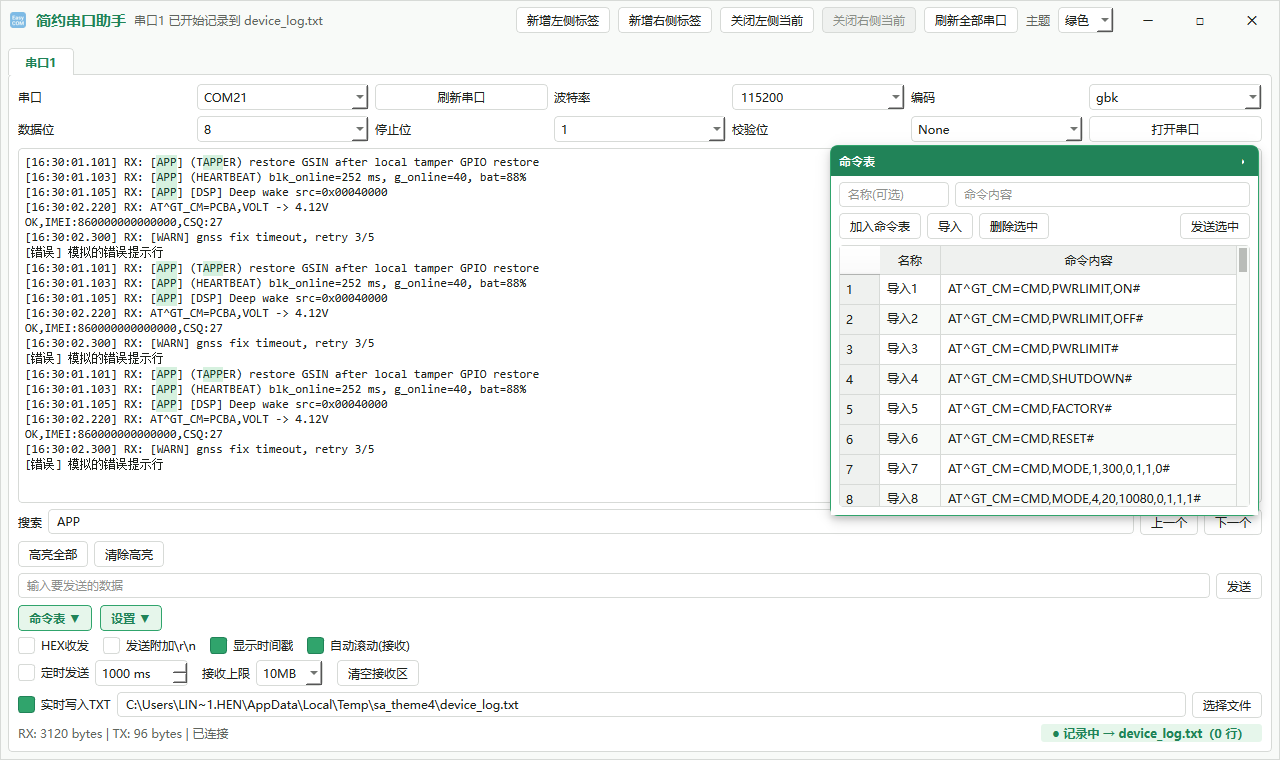
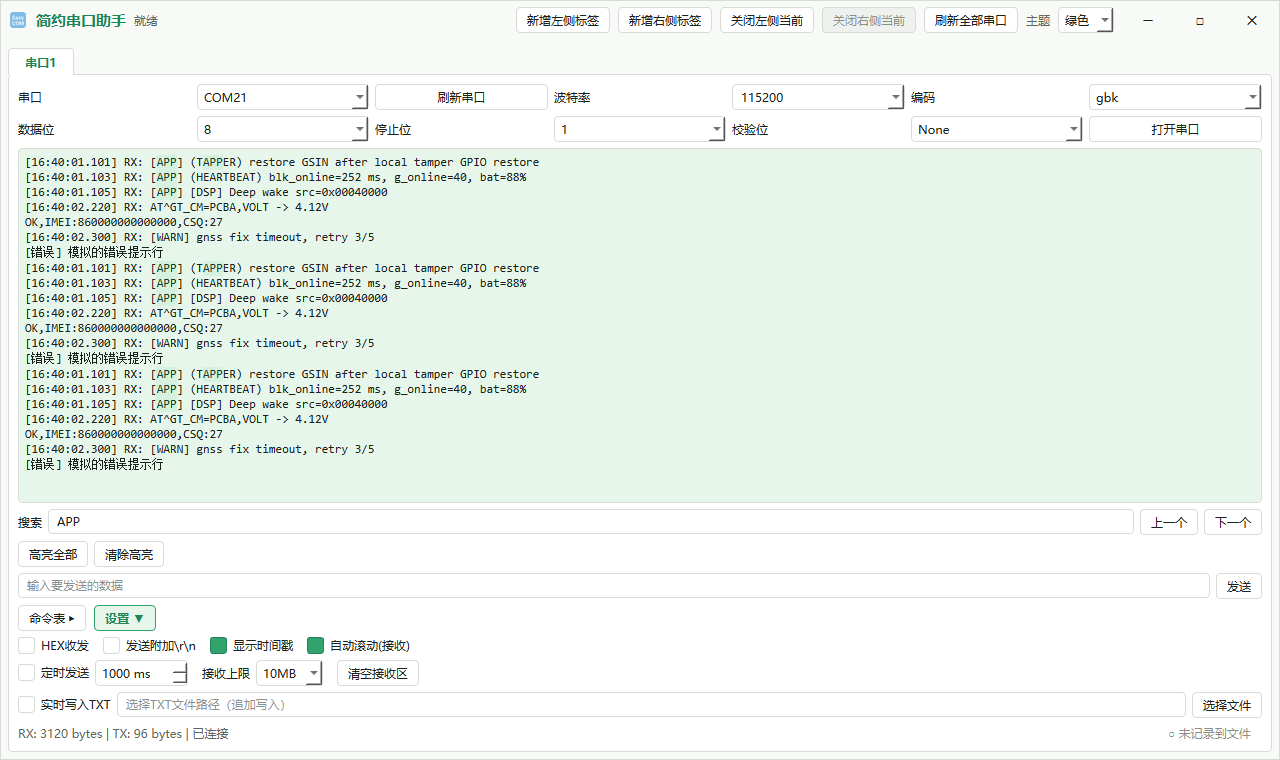
fix(green): 接收区改用 Radix green-3 底色，与浅色主题拉开区别
绿色主题的接收区原本是纯白，和浅色主题几乎分不出来，主题感很弱。
改用 green-3 (#e6f6eb) 淡绿底，表格隔行色同步跟随为 green-2。
接收区内文字仍为 olive-12，对比度约 14:1，长时间阅读不费力。

diff --git a/main.py b/main.py
@@ -376,10 +376,10 @@ GREEN_THEME = Theme(
     is_dark=False,
     window_bg="#f8faf8",            # olive-2
     panel_bg="#ffffff",
-    textarea_bg="#ffffff",
+    textarea_bg="#e6f6eb",          # green-3，接收区用明显的淡绿底，和浅色主题拉开
     input_bg="#ffffff",
     input_bg_disabled="#eff1ef",    # olive-3
-    alt_row_bg="#f8faf8",           # olive-2
+    alt_row_bg="#f4fbf6",           # green-2
     button_bg="#ffffff",
     button_hover="#eff1ef",         # olive-3
     button_pressed="#e7e9e7",       # olive-4
